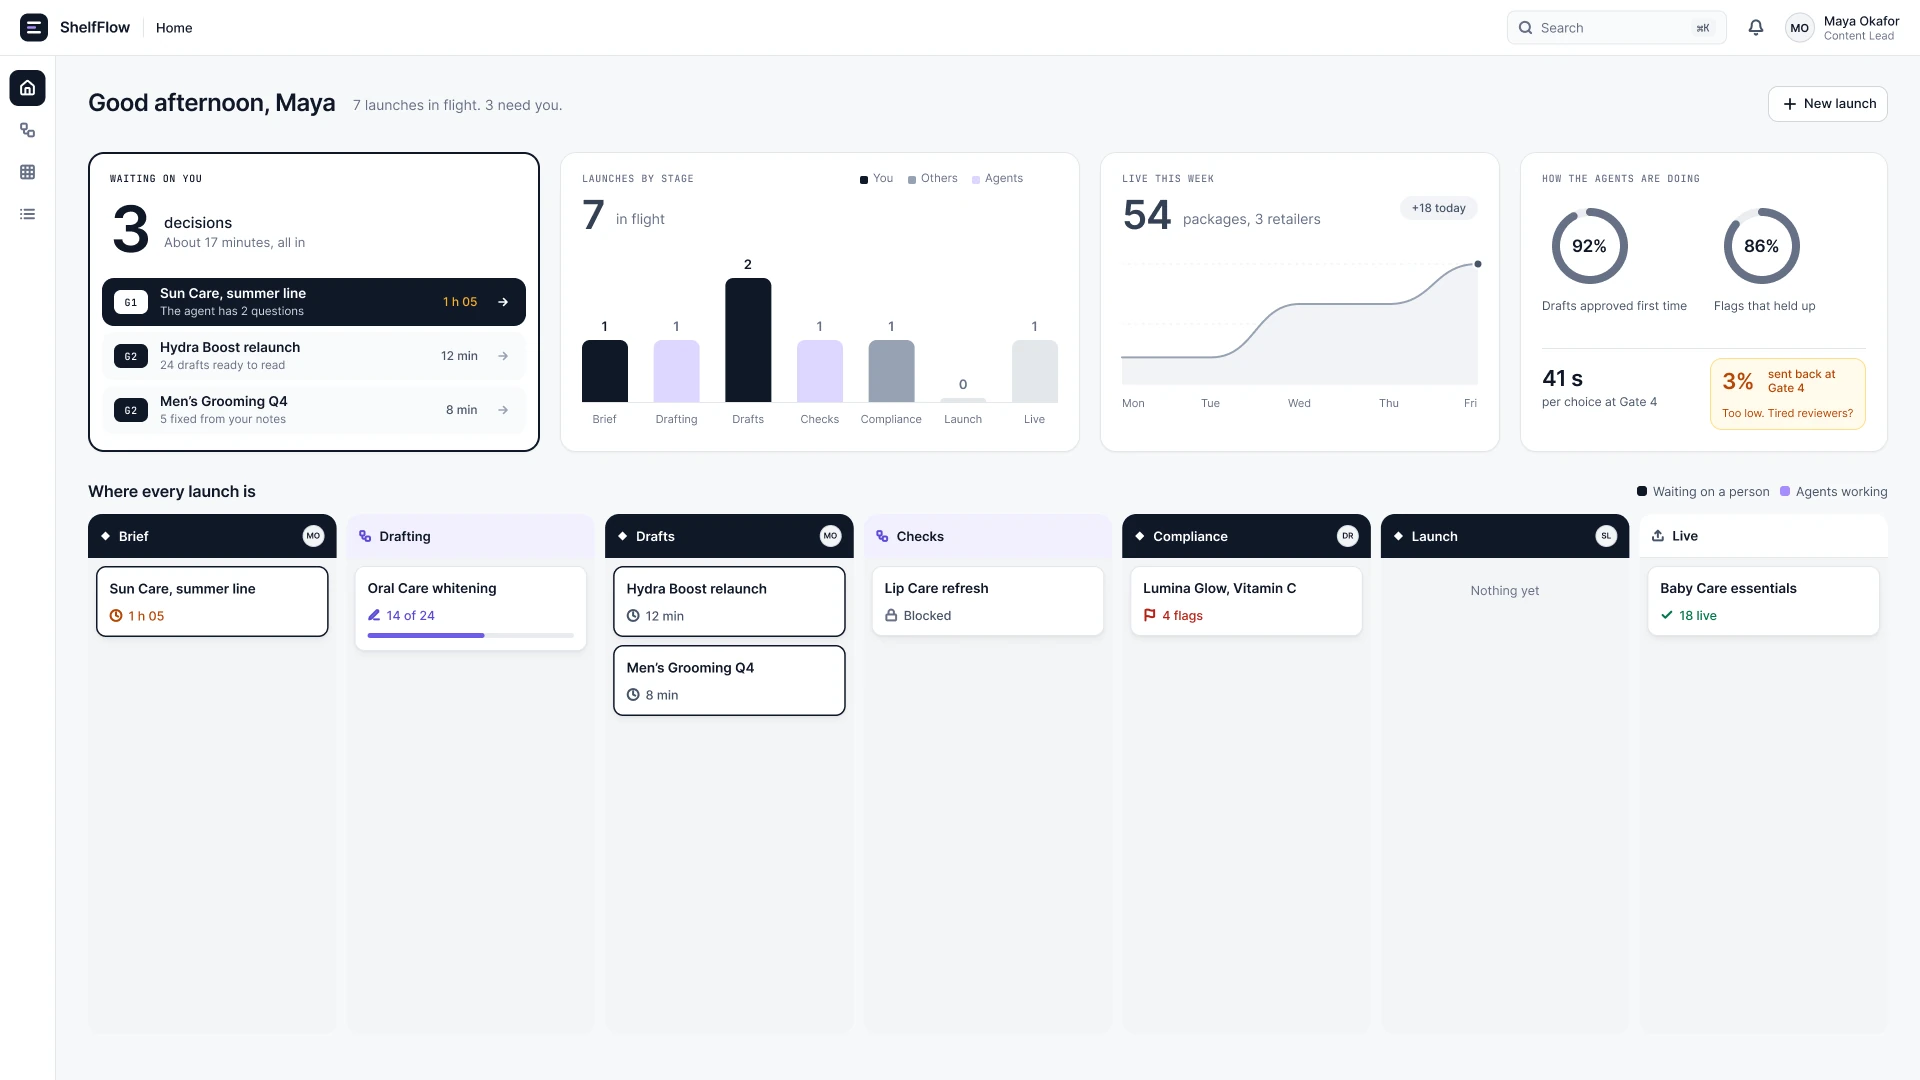
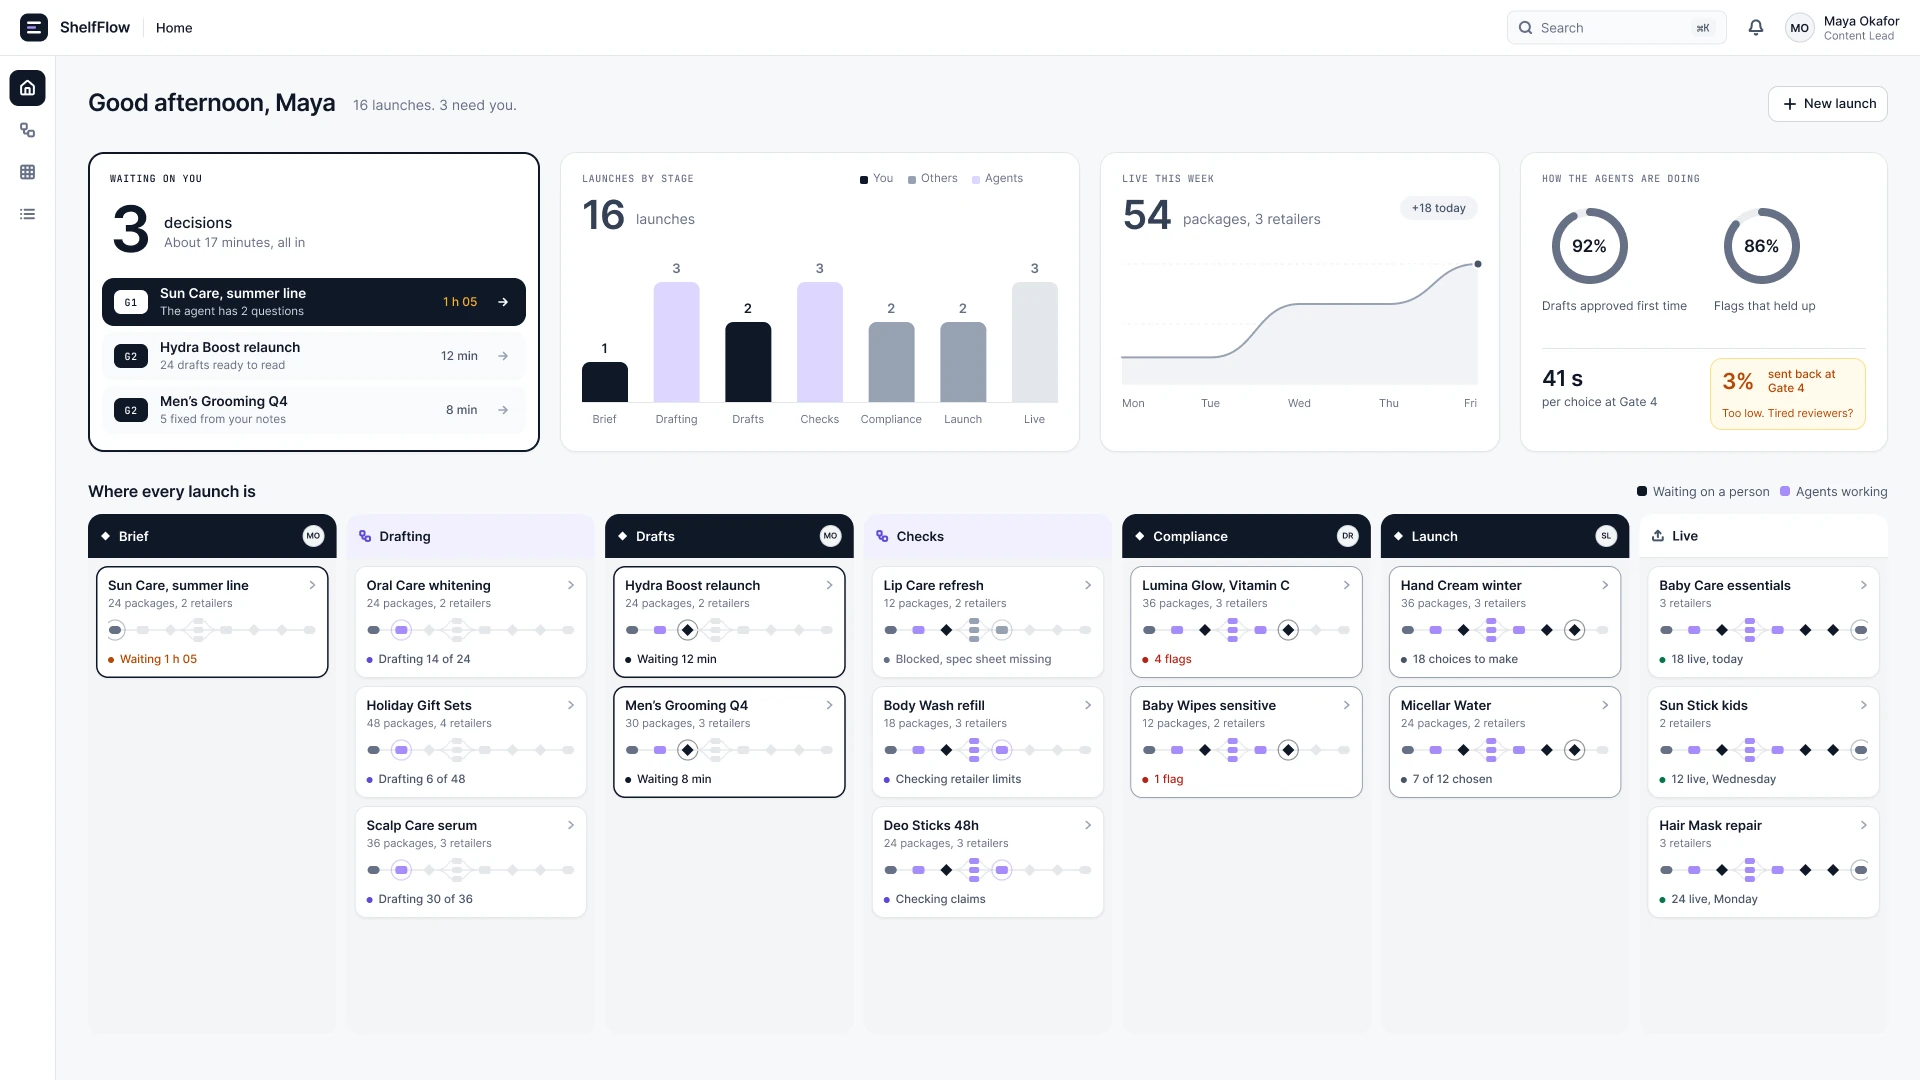
ShelfFlow Home: sixteen campaigns, each with a mini pipeline
Claude-Session: https://claude.ai/code/session_01HvDhLSvuduqAxmMyg4wmpi

diff --git a/work/shelfflow.html b/work/shelfflow.html
@@ -586,7 +586,7 @@
     </div>
 
   <div class="cs__img" data-reveal><img src="../img/shelfflow/v4/home.webp" alt="ShelfFlow home: a dashboard with the decision queue, launches by stage, packages live this week and agent quality, above a board of every launch" width="1920" height="1080" loading="lazy" decoding="async"></div>
-  <p class="cs__img-cap">Home, from the Content Lead's seat. Her queue comes first, then the state of the whole operation: launches by stage, what went live this week and how the agents are doing. Below it, every launch on a board: dark columns wait on a person, violet ones are agents working.</p>
+  <p class="cs__img-cap">Home, from the Content Lead's seat. Her queue comes first, then the state of the whole operation: launches by stage, what went live this week and how the agents are doing. Below it, sixteen launches on a board: dark columns wait on a person, violet ones are agents working. Each card carries a small drawing of its own pipeline and opens its canvas.</p>
 
   <div class="cs__screens" data-reveal>
     <div class="cs__screen"><img src="../img/shelfflow/v4/run-g4.webp" alt="Gate 4 on the canvas: the legal branch is skipped and it is Sofia Lindqvist turn" width="1920" height="1080" loading="lazy" decoding="async"><span class="cs__screen-label">Gate 4 / the branch resolves, your turn</span></div>
